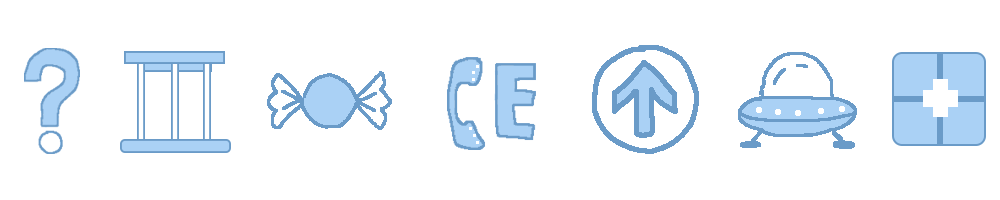
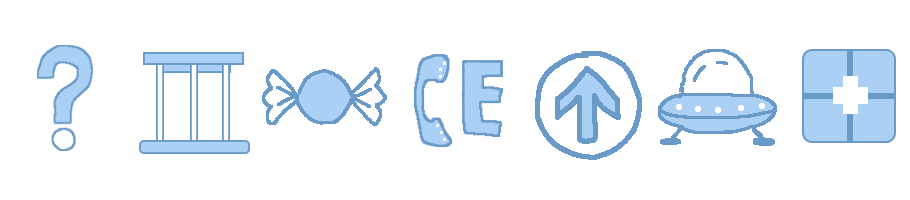
added symbols sprite on top of UI

Changed region(s): [[0.0, 0.21, 0.5538, 0.78], [0.5846, 0.21, 1.0, 0.81]]

diff --git a/src/scenes/Play.js b/src/scenes/Play.js
@@ -74,6 +74,9 @@ class Play extends Phaser.Scene{
         phoneUI.setScale(0.45);
         phoneNum = 0;
 
+        symbols = this.add.sprite((game.config.width/2), 33, "symbols");
+        symbols.setScale(0.4);
+
         piece1 = this.physics.add.sprite(90, 120, 'reeses');
         piece1.setScale(1.5);
         
@@ -210,7 +213,7 @@ class Play extends Phaser.Scene{
         }
     }
 
-    phoneUpdate(){
+    phoneUpdate(){//the places where the phone is hidden in the map still needs to be implemented
         if(phoneNum == 0){
             phoneUI.setTexture("phone2");
             phoneUI.setAlpha(0);

diff --git a/src/scenes/Load.js b/src/scenes/Load.js
@@ -26,7 +26,7 @@ class Load extends Phaser.Scene{
         this.load.image('phone3', './assets/phone3.png');
         this.load.image('secondPhone', './assets/secondPhone.png');
         this.load.image('thirdPhone', './assets/thirdPhone.png');
-        this.load.image('symbols', './assets/zones.png');
+        this.load.spritesheet('symbols', './assets/zones.png', {frameWidth: 130, frameHeight: 200, endFrame: 6});
         
         //this.load.audio();
     }

diff --git a/src/main.js b/src/main.js
@@ -14,7 +14,7 @@ let config = {
 let game = new Phaser.Game(config);
 let bg, bg_map;
 let uiBars, energyText, piecesText, sceneName;
-let symols;
+let symbols;
 let phoneUI;
 let obstaclesGroup, holesGroup;
 let piece1, piece2, piece3, piecesGroup;
